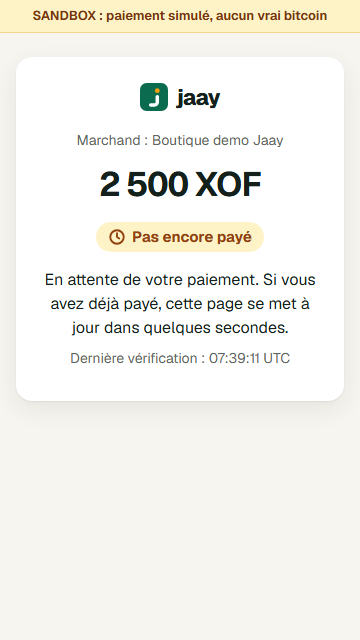
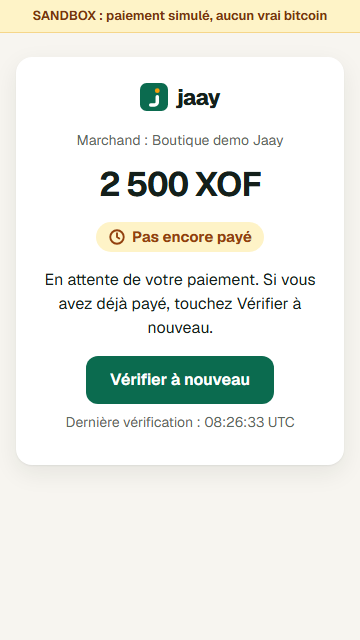
docs: receipt refresh in API and accessibility notes; regenerated screens

Changed region(s): [[0.0611, 0.4688, 0.9167, 0.6875]]

diff --git a/docs/ACCESSIBILITY.md b/docs/ACCESSIBILITY.md
@@ -21,4 +21,4 @@ Measured 2026-11-20 on the `redesign` branch. Real screen readers, real phones, 
 
 ## Not run
 
-- axe-core 4.14.0 (WCAG 2.1 A and AA), run on every layout screen at 320 and 360 px in EN and FR with `E2E_ONLY=layout E2E_AXE=<path to axe.min.js> pnpm --filter @jaay/pos test:e2e` (axe is a local copy, not a dependency). Result: 0 serious or critical issues on the PWA and the simulator. One open critical on the server receipt before payment: `meta-refresh`, because the page reloads every 5 seconds while it waits (it has no JavaScript by design). Removing it changes server behaviour, so it is left for an owner decision. The simulator's raw-response blocks are now keyboard focusable (axe `scrollable-region-focusable`).
+- axe-core 4.14.0 (WCAG 2.1 A and AA), run on every layout screen at 320 and 360 px in EN and FR with `E2E_ONLY=layout E2E_AXE=<path to axe.min.js> pnpm --filter @jaay/pos test:e2e` (axe is a local copy, not a dependency). Result: 0 serious or critical issues on the PWA, the simulator and the receipt. The receipt used to reload itself every 5 seconds while waiting for payment (axe `meta-refresh`, critical); it now shows a "Check again" link instead, so the customer decides when it reloads (owner decision, 2026-11-20). The simulator's raw-response blocks are now keyboard focusable (axe `scrollable-region-focusable`).

diff --git a/docs/API.md b/docs/API.md
@@ -153,7 +153,7 @@ Receipt page for the customer. Returns HTML (not JSON).
 
 - No JavaScript. Strict CSP: `default-src 'none'` with the stylesheet pinned by hash.
 - French by default, English when the first `Accept-Language` entry starts with `en`.
-- Pending: the page says not paid yet and refreshes every 5 s.
+- Pending: the page says not paid yet, with a "Check again" link that reloads it. No timed refresh (WCAG 2.2.1), and still no JavaScript.
 - Paid or paid late: shows amount, UTC time and the confirm code. The code appears only after settlement (`paid` or `paid_late`).
 - SANDBOX servers show a SANDBOX bar at the top.
 
